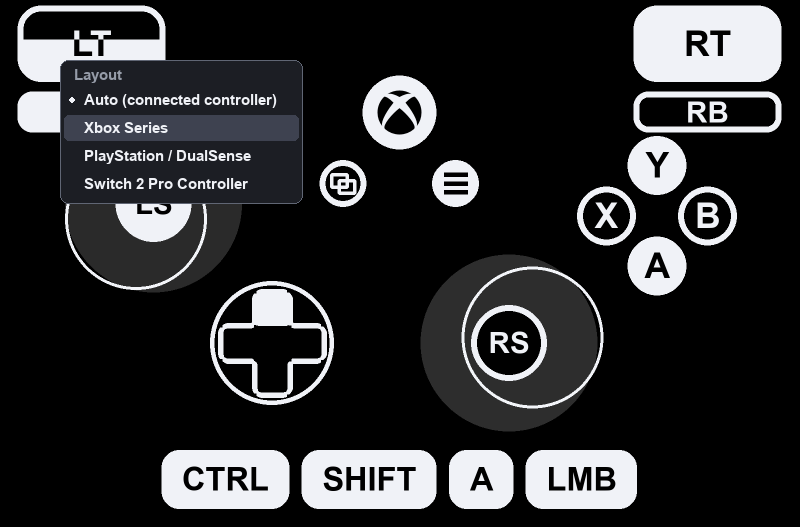
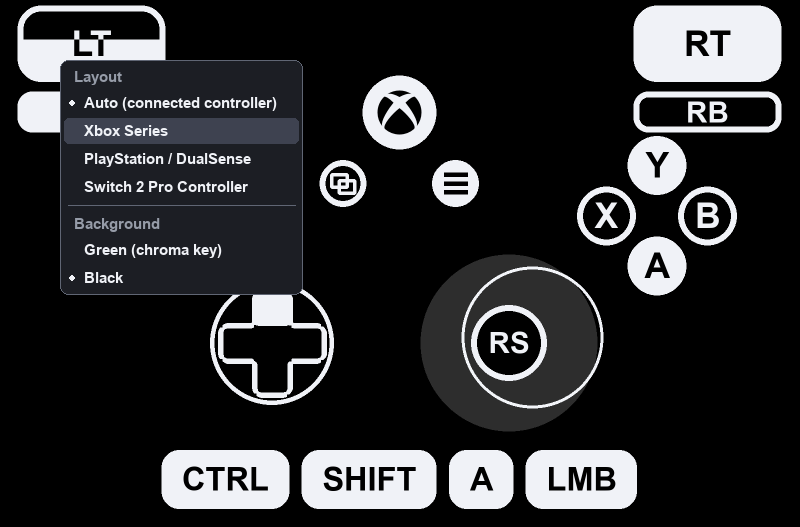
Move the background toggle from the G key to the right-click menu
The background (green chroma key or black) is now picked in the same menu as the layout and
remembered. The G shortcut is removed so it cannot be triggered by accident while the window
has focus. The menu now supports sections, so it can hold both choices.

Changed region(s): [[0.0625, 0.1214, 0.4062, 0.5769]]

diff --git a/inputviewer/app.py b/inputviewer/app.py
@@ -1,7 +1,8 @@
 """Ventana principal: mando (autodetectado) + teclas/ratón.
 
-Tecla G = fondo verde / negro. Clic derecho = elegir la distribución (Auto por defecto: la del
-mando conectado). La elección se guarda y se aplica aunque el mando conectado sea de otro tipo.
+Clic derecho = menú: elegir la distribución (Auto por defecto: la del mando conectado) y el fondo
+(verde para chroma key o negro). Las dos elecciones se guardan; la distribución se aplica aunque el
+mando conectado sea de otro tipo.
 
 Opciones de prueba:  --screenshot ruta.png   --demo [xbox|playstation|switch2|none]
                      --layout [auto|xbox|playstation|switch2]   --open-menu
@@ -22,6 +23,12 @@ from .gamepad import PadState, SDLGamepad
 from .menu import ContextMenu
 
 LAYOUTS = {"xbox": xbox, "playstation": playstation, "switch2": switch2}
+LAYOUT_CHOICES = [
+    ("auto", "Auto (connected controller)"),
+    ("xbox", "Xbox Series"),
+    ("playstation", "PlayStation / DualSense"),
+    ("switch2", "Switch 2 Pro Controller"),
+]
 LW = 270
 GREEN = (0, 177, 64)  # chroma key para OBS
 MUTED = (170, 176, 188)  # color del aviso "esperando mando"
@@ -74,11 +81,19 @@ def main():
     if choice != "auto" and choice not in LAYOUTS:
         choice = "auto"
     menu = ContextMenu()
-    if "--open-menu" in argv:
-        menu.show((60, 60))
-        menu.hover = "xbox"
+    bg_green = cfg.get("background", "green") != "black" and shot is None  # fondo preferido (chroma key)
 
-    bg_green = shot is None
+    def menu_items():
+        items = [(None, "Layout", False)]
+        items += [(f"layout:{k}", t, k == choice) for k, t in LAYOUT_CHOICES]
+        items += [(None, "-", False), (None, "Background", False),
+                  ("bg:green", "Green (chroma key)", bg_green), ("bg:black", "Black", not bg_green)]
+        return items
+
+    if "--open-menu" in argv:
+        menu.show((60, 60), menu_items())
+        menu.hover = "layout:xbox"
+
     kind = "xbox"
     last_key, scaled = None, pygame.Surface((1, 1))
     clock = pygame.time.Clock()
@@ -88,18 +103,19 @@ def main():
         for e in pygame.event.get():
             if e.type == pygame.QUIT:
                 running = False
-            elif e.type == pygame.KEYDOWN and e.key == pygame.K_g:
-                bg_green = not bg_green
             elif e.type == pygame.KEYDOWN and e.key == pygame.K_ESCAPE:
                 menu.hide()
             elif e.type == pygame.MOUSEBUTTONDOWN and e.button == 3:  # clic derecho: abrir menú
-                menu.show(e.pos)
+                menu.show(e.pos, menu_items())
             elif e.type == pygame.MOUSEBUTTONDOWN and e.button == 1 and menu.open:
                 picked = menu.item_at(e.pos, win.get_size())
-                if picked:
-                    choice = picked
-                    config.save({**cfg, "layout": choice})
                 menu.hide()  # un clic en cualquier sitio cierra el menú
+                if picked and picked.startswith("layout:"):
+                    choice = picked[7:]
+                    config.save({**config.load(), "layout": choice})
+                elif picked and picked.startswith("bg:"):
+                    bg_green = picked == "bg:green"
+                    config.save({**config.load(), "background": "green" if bg_green else "black"})
             elif e.type == pygame.MOUSEMOTION and menu.open:
                 menu.hover = menu.item_at(e.pos, win.get_size())
 
@@ -129,7 +145,7 @@ def main():
             win.fill(bg)
             win.blit(scaled, ((ww - scaled.get_width()) // 2, (wh - scaled.get_height()) // 2))
             if menu.open:
-                menu.draw(win, choice)
+                menu.draw(win)
             pygame.display.flip()
             if shot and time.time() - t0 > 1.5:
                 running = False
@@ -151,7 +167,7 @@ def main():
         win.fill(bg)
         win.blit(scaled, ((ww - scaled.get_width()) // 2, (wh - scaled.get_height()) // 2))
         if menu.open:
-            menu.draw(win, choice)
+            menu.draw(win)
         pygame.display.flip()
 
         if shot:

diff --git a/inputviewer/menu.py b/inputviewer/menu.py
@@ -1,22 +1,20 @@
-"""Menú contextual (clic derecho) para elegir la distribución. Dibujado con pygame sobre la ventana."""
+"""Menú contextual (clic derecho) con filas dinámicas, dibujado con pygame sobre la ventana.
+
+Una fila es (clave, texto, marcada). Clave None = cabecera (texto) o separador (texto "-").
+"""
 import pygame
 
 from .draw import FONT_NAMES
 
-ITEMS = [
-    ("auto", "Auto (connected controller)"),
-    ("xbox", "Xbox Series"),
-    ("playstation", "PlayStation / DualSense"),
-    ("switch2", "Switch 2 Pro Controller"),
-]
 BG, BORDER, HOVER, TEXT, DIM = (28, 30, 36), (96, 102, 116), (62, 66, 80), (240, 242, 247), (150, 156, 168)
-PAD_X, PAD_Y, ROW_H, HEAD_H = 14, 6, 28, 26
+PAD_X, ROW_H, HEAD_H, SEP_H = 14, 28, 26, 9
 
 
 class ContextMenu:
     def __init__(self):
         self.open = False
         self.pos = (0, 0)
+        self.items = []
         self.hover = None
         self._font = None
 
@@ -25,42 +23,52 @@ class ContextMenu:
             self._font = pygame.font.SysFont(FONT_NAMES, 15, bold=True)
         return self._font
 
-    def show(self, pos):
-        self.open, self.pos, self.hover = True, pos, None
+    def show(self, pos, items):
+        self.open, self.pos, self.items, self.hover = True, pos, items, None
 
     def hide(self):
         self.open, self.hover = False, None
 
+    def _row_h(self, key, label):
+        if key is None:
+            return SEP_H if label == "-" else HEAD_H
+        return ROW_H
+
     def _geometry(self, win_size):
         f = self.font()
-        w = max(f.size(t)[0] for _, t in ITEMS) + PAD_X * 2 + 22
-        h = HEAD_H + ROW_H * len(ITEMS) + PAD_Y
+        w = max([f.size(t)[0] for _, t, _ in self.items if t != "-"] + [120]) + PAD_X * 2 + 22
+        h = sum(self._row_h(k, t) for k, t, _ in self.items) + 6
         x = max(0, min(self.pos[0], win_size[0] - w))
         y = max(0, min(self.pos[1], win_size[1] - h))
-        rows = [pygame.Rect(x, y + HEAD_H + i * ROW_H, w, ROW_H) for i in range(len(ITEMS))]
+        rows, cy = [], y + 3
+        for k, t, _ in self.items:
+            rh = self._row_h(k, t)
+            rows.append(pygame.Rect(x, cy, w, rh))
+            cy += rh
         return pygame.Rect(x, y, w, h), rows
 
     def item_at(self, pos, win_size):
         _, rows = self._geometry(win_size)
-        for (key, _), r in zip(ITEMS, rows):
-            if r.collidepoint(pos):
+        for (key, _, _), r in zip(self.items, rows):
+            if key is not None and r.collidepoint(pos):
                 return key
         return None
 
-    def contains(self, pos, win_size):
-        return self._geometry(win_size)[0].collidepoint(pos)
-
-    def draw(self, surf, current):
+    def draw(self, surf):
         box, rows = self._geometry(surf.get_size())
         f = self.font()
         pygame.draw.rect(surf, BG, box, border_radius=8)
         pygame.draw.rect(surf, BORDER, box, 1, border_radius=8)
-        head = f.render("Layout", True, DIM)
-        surf.blit(head, (box.x + PAD_X, box.y + 6))
-        for (key, label), r in zip(ITEMS, rows):
+        for (key, label, checked), r in zip(self.items, rows):
+            if key is None:
+                if label == "-":
+                    pygame.draw.line(surf, BORDER, (r.x + 8, r.centery), (r.right - 8, r.centery))
+                else:
+                    surf.blit(f.render(label, True, DIM), (r.x + PAD_X, r.centery - 8))
+                continue
             if key == self.hover:
                 pygame.draw.rect(surf, HOVER, r.inflate(-8, -2), border_radius=5)
-            if key == current:  # punto de selección
+            if checked:
                 pygame.draw.circle(surf, TEXT, (r.x + PAD_X - 2, r.centery), 3)
             img = f.render(label, True, TEXT)
             surf.blit(img, (r.x + PAD_X + 10, r.centery - img.get_height() // 2))

diff --git a/README.md b/README.md
@@ -50,8 +50,8 @@ in `%APPDATA%\InputViewer\config.json` (macOS: `~/Library/Application Support/In
 Linux: `~/.config/InputViewer`). When you force a layout, buttons are converted by physical
 position (e.g. Xbox A, at the bottom, lights up Nintendo B, also at the bottom).
 
-**G** toggles a green background (chroma key in OBS: Window Capture + "Color Key" filter
-`#00B140`) and black.
+The same right-click menu has a **Background** section: green (chroma key in OBS: Window Capture +
+"Color Key" filter `#00B140`) or black. Your choice is remembered.
 
 ## Build an executable
 
@@ -151,8 +151,8 @@ se guarda en `%APPDATA%\InputViewer\config.json` (macOS: `~/Library/Application 
 Linux: `~/.config/InputViewer`). Al forzar una distribución, los botones se convierten por
 posición física (p. ej. la A de Xbox, abajo, ilumina la B de Nintendo, también abajo).
 
-**G** alterna fondo verde (chroma key en OBS: Captura de ventana + filtro «Clave de color»
-`#00B140`) y negro.
+El mismo menú de clic derecho tiene una sección **Background**: verde (chroma key en OBS: Captura
+de ventana + filtro «Clave de color» `#00B140`) o negro. Tu elección se recuerda.
 
 ## Compilar un ejecutable
 
